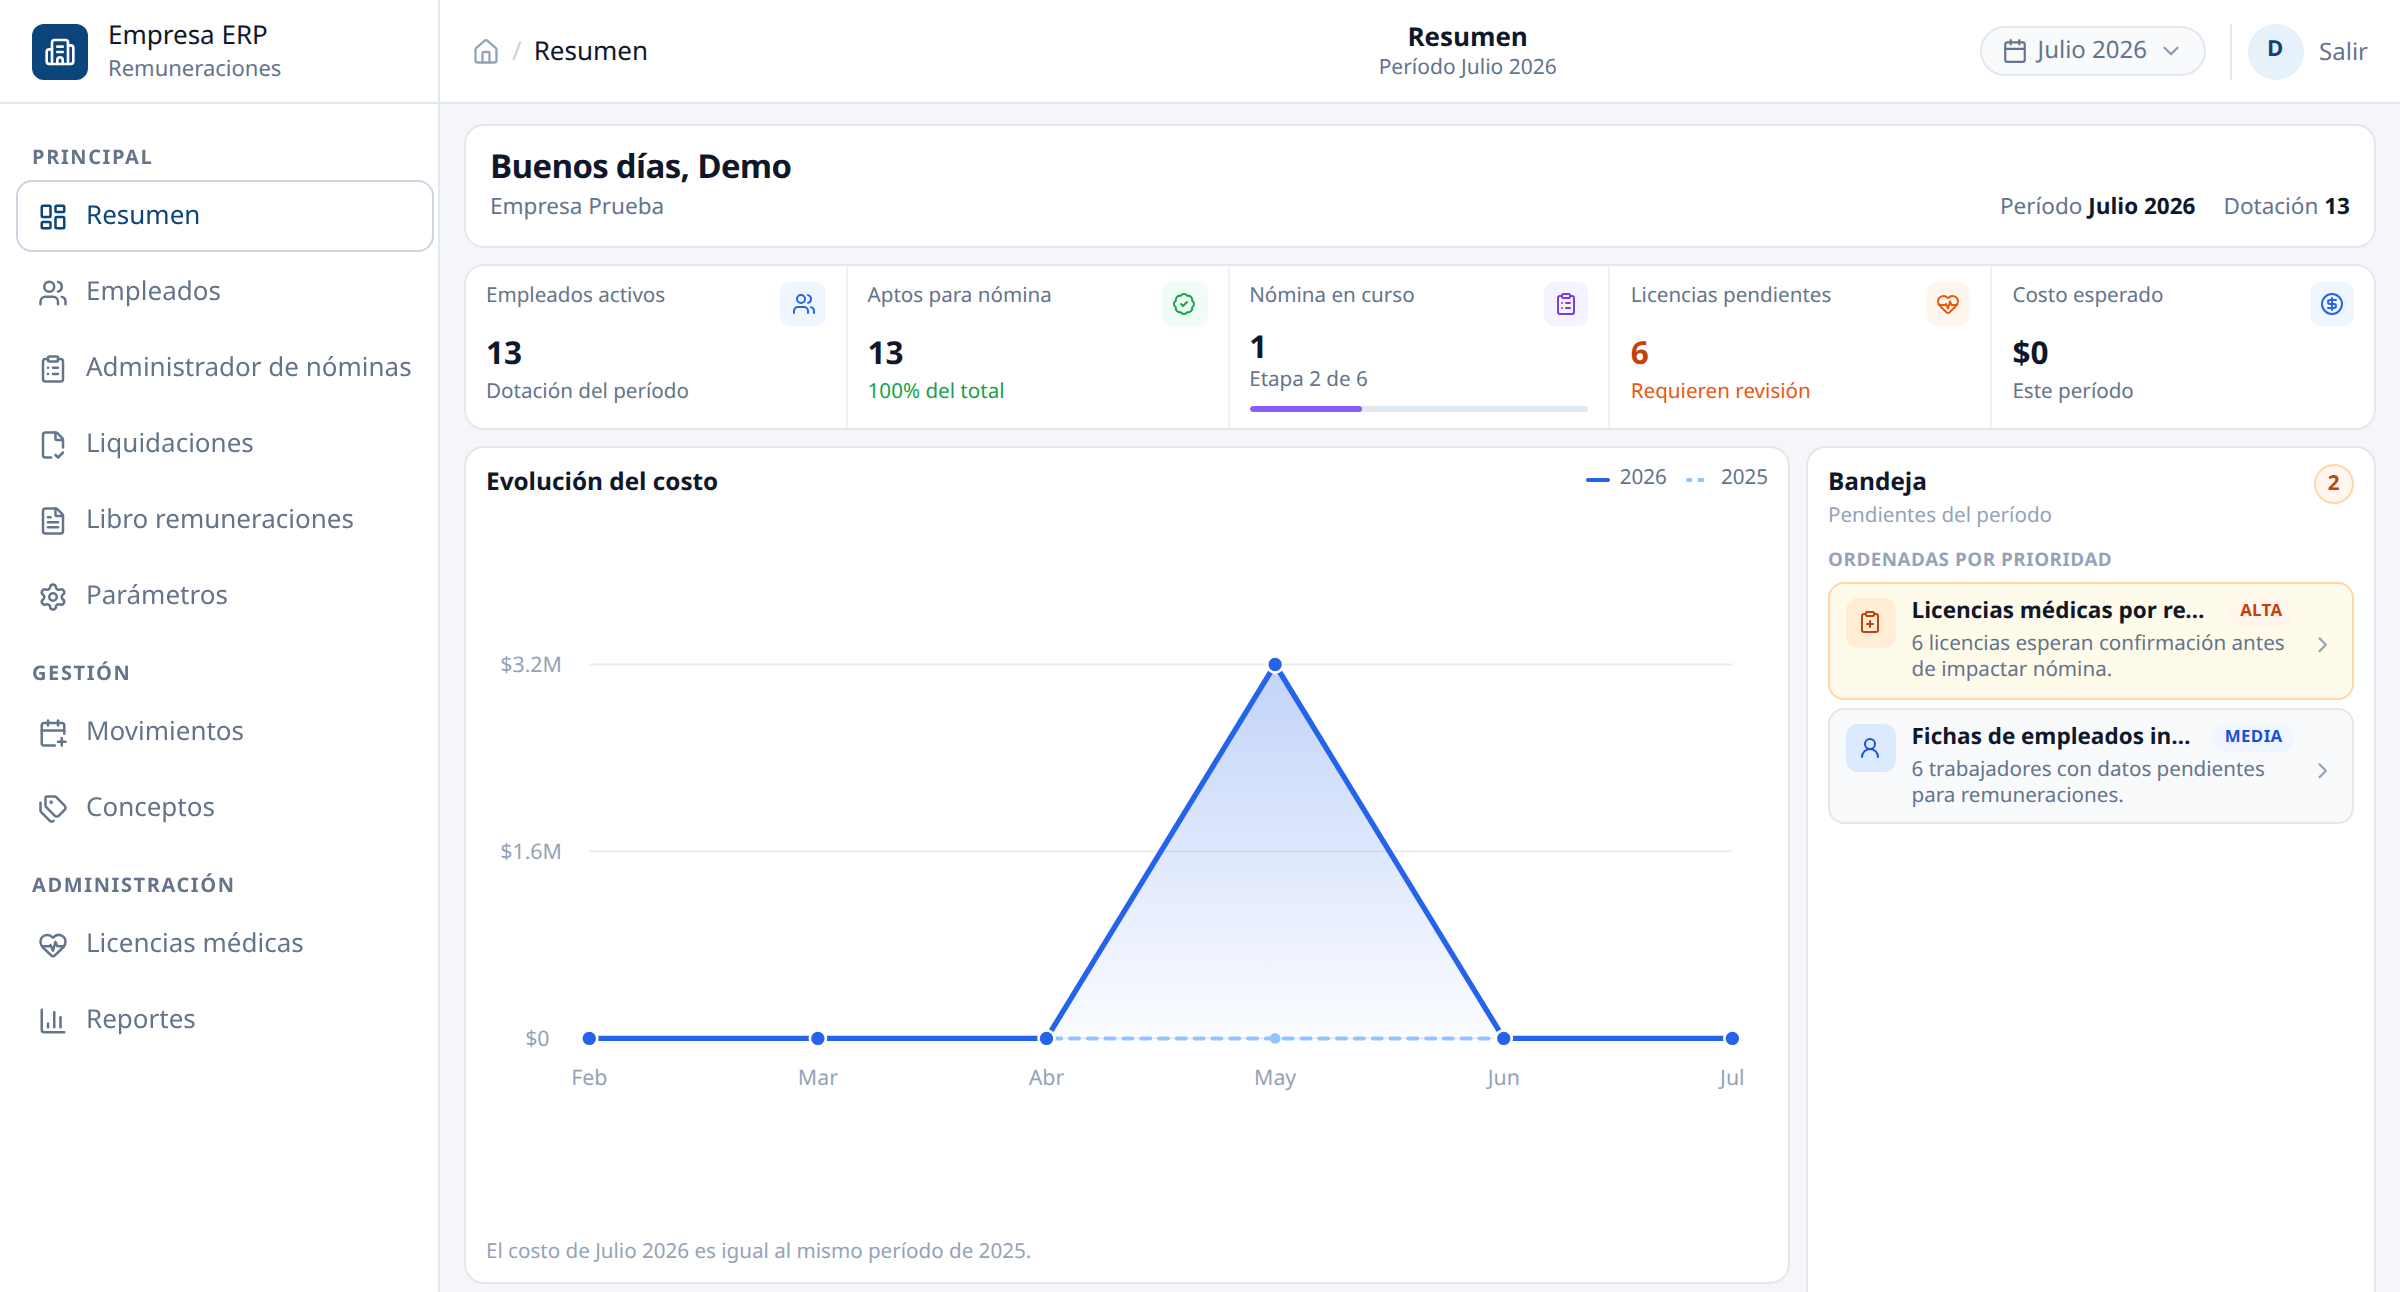
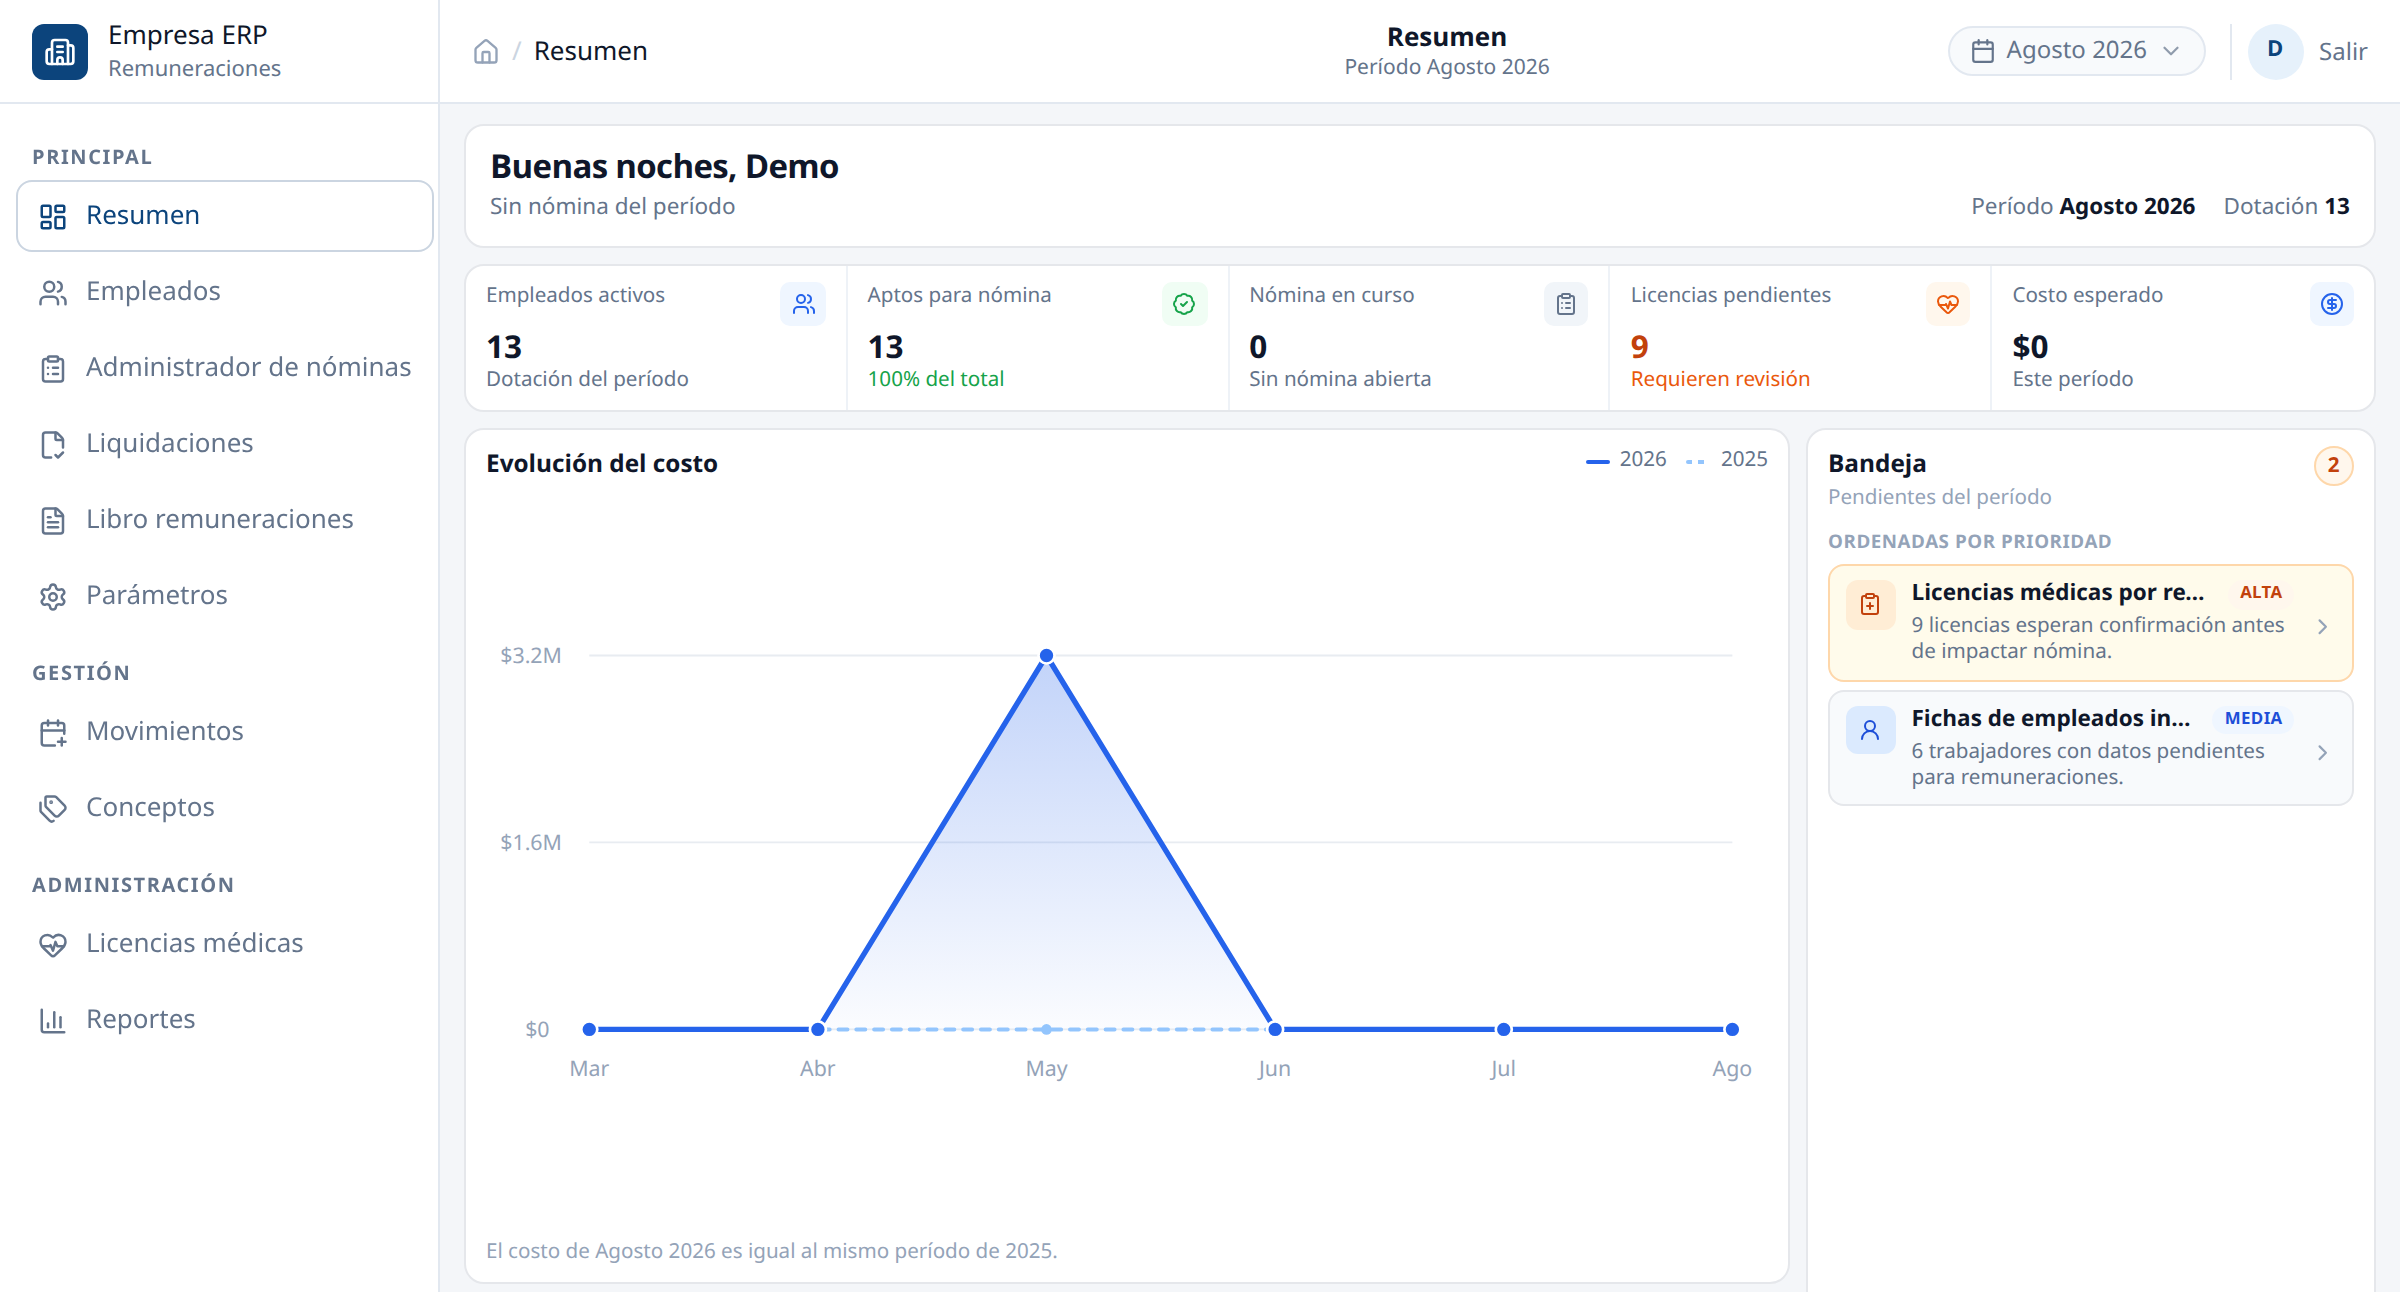
Add real project photos with clickable demo overlay
HuntOS now shows its live landing screenshot (with the new public demo
credentials noted) and the ERP capture was refreshed. Screenshots are
wrapped in a stretched demo link with a hover reveal chip, subtle zoom,
and lifted shadow, all disabled under prefers-reduced-motion.

diff --git a/src/styles.css b/src/styles.css
@@ -807,12 +807,51 @@ body {
 
 /* Project mock UI */
 .project-mock {
+  position: relative;
   border-radius: var(--radius);
   overflow: hidden;
   border: 1px solid var(--line-strong);
   background: #1a222b;
   color: #e8eef3;
   box-shadow: 0 18px 40px rgba(18, 24, 32, 0.18);
+  transition: box-shadow var(--duration) var(--ease), transform var(--duration) var(--ease);
+}
+
+.project-mock:hover {
+  box-shadow: 0 24px 52px rgba(18, 24, 32, 0.26);
+  transform: translateY(-2px);
+}
+
+.project-mock__open {
+  position: absolute;
+  inset: 0;
+  z-index: 3;
+  display: flex;
+  align-items: flex-end;
+  justify-content: flex-end;
+  padding: 0.9rem;
+  opacity: 0;
+  background: linear-gradient(180deg, transparent 55%, rgba(18, 24, 32, 0.5) 100%);
+  transition: opacity var(--duration) var(--ease);
+}
+
+.project-mock__open span {
+  display: inline-flex;
+  align-items: center;
+  gap: 0.35rem;
+  padding: 0.4rem 0.75rem;
+  border-radius: 0.45rem;
+  border: 1px solid rgba(232, 238, 243, 0.2);
+  background: #121820;
+  color: #6eb89a;
+  font-family: ui-monospace, SFMono-Regular, Menlo, monospace;
+  font-size: 0.72rem;
+  font-weight: 600;
+}
+
+.project-mock:hover .project-mock__open,
+.project-mock__open:focus-visible {
+  opacity: 1;
 }
 
 .project-mock__chrome {
@@ -853,6 +892,11 @@ body {
   min-height: 210px;
   object-fit: cover;
   object-position: top;
+  transition: transform 0.5s var(--ease);
+}
+
+.project-mock:hover .project-mock__screenshot {
+  transform: scale(1.015);
 }
 
 .project-mock__side {
@@ -1114,7 +1158,9 @@ body {
   .section-teaser:hover,
   .project-list__item.is-active,
   .project-stage,
-  .accordion-panel {
+  .accordion-panel,
+  .project-mock:hover,
+  .project-mock:hover .project-mock__screenshot {
     transform: none;
     padding-left: inherit;
     animation: none !important;

diff --git a/src/app/app.component.html b/src/app/app.component.html
@@ -194,13 +194,23 @@
               *ngFor="let project of [activeProject]; trackBy: trackProject"
               class="project-stage"
             >
-              <div class="project-mock" aria-hidden="true">
-                <div class="project-mock__chrome">
+              <div class="project-mock">
+                <div class="project-mock__chrome" aria-hidden="true">
                   <span class="project-mock__dot"></span>
                   <span class="project-mock__dot"></span>
                   <span class="project-mock__dot"></span>
                   <span class="ml-2 text-[11px] text-white/40 font-mono">{{ project.previewDomain }}</span>
                 </div>
+                <a
+                  *ngIf="project.demoUrl"
+                  [href]="project.demoUrl"
+                  target="_blank"
+                  rel="noopener noreferrer"
+                  class="project-mock__open"
+                  [attr.aria-label]="content.projects.demoLabel + ' — ' + project.shortTitle"
+                >
+                  <span>{{ content.projects.demoLabel }} ↗</span>
+                </a>
                 <img
                   *ngIf="project.screenshot"
                   [src]="project.screenshot"

diff --git a/src/app/content/content.es.ts b/src/app/content/content.es.ts
@@ -135,6 +135,8 @@ export const CONTENT_ES: SiteContent = {
         tags: ['IA', 'Automatización', 'Supabase', 'Vercel'],
         github: 'https://github.com/teckuro',
         demoUrl: 'https://huntos.vercel.app/',
+        demoNote: 'Acceso demo: demo@huntos.app · DemoHuntOS2026!',
+        screenshot: 'assets/projects/huntos.jpg',
         mockupLabel: 'HuntOS',
         previewDomain: 'huntos.vercel.app'
       }

diff --git a/src/app/content/content.en.ts b/src/app/content/content.en.ts
@@ -135,6 +135,8 @@ export const CONTENT_EN: SiteContent = {
         tags: ['AI', 'Automation', 'Supabase', 'Vercel'],
         github: 'https://github.com/teckuro',
         demoUrl: 'https://huntos.vercel.app/',
+        demoNote: 'Demo access: demo@huntos.app · DemoHuntOS2026!',
+        screenshot: 'assets/projects/huntos.jpg',
         mockupLabel: 'HuntOS',
         previewDomain: 'huntos.vercel.app'
       }
